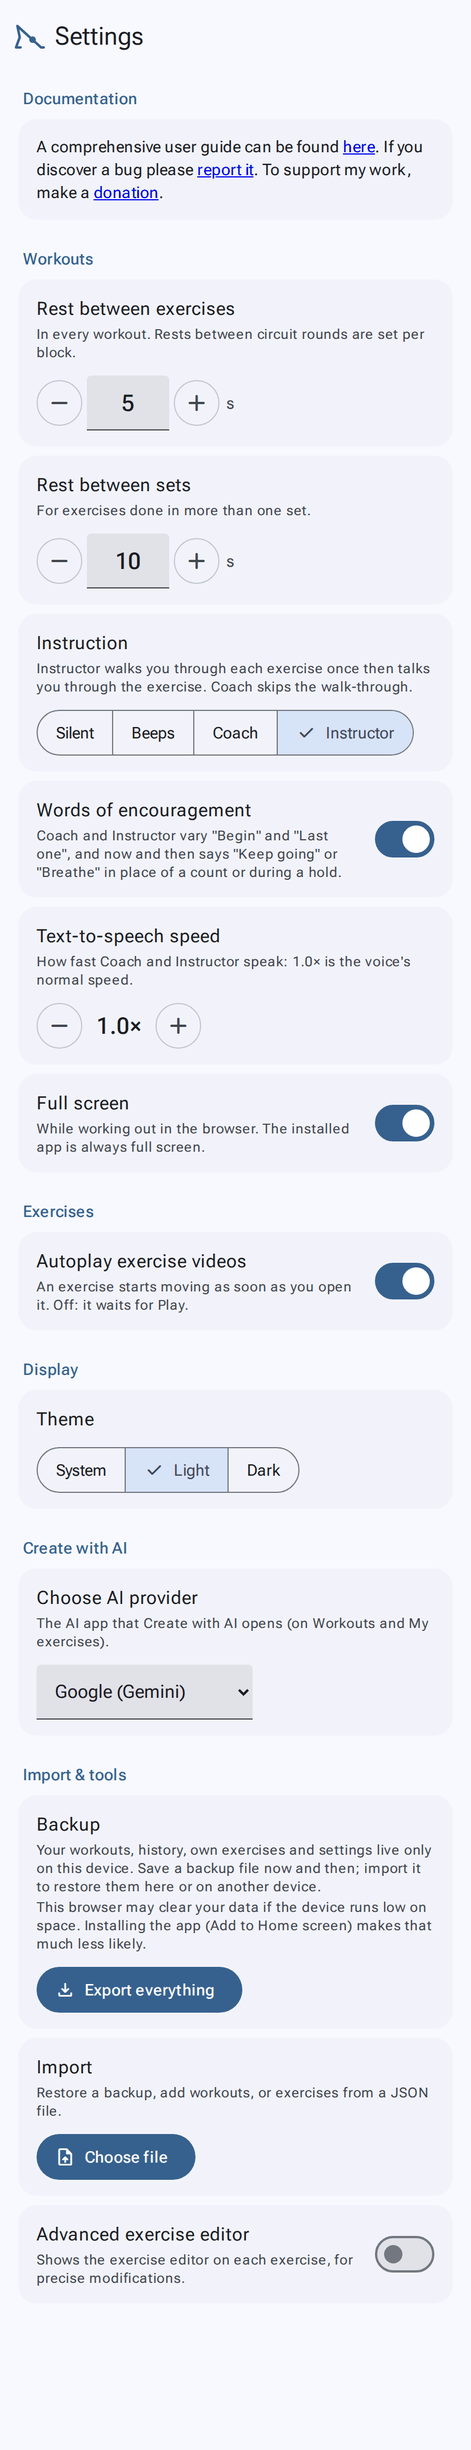
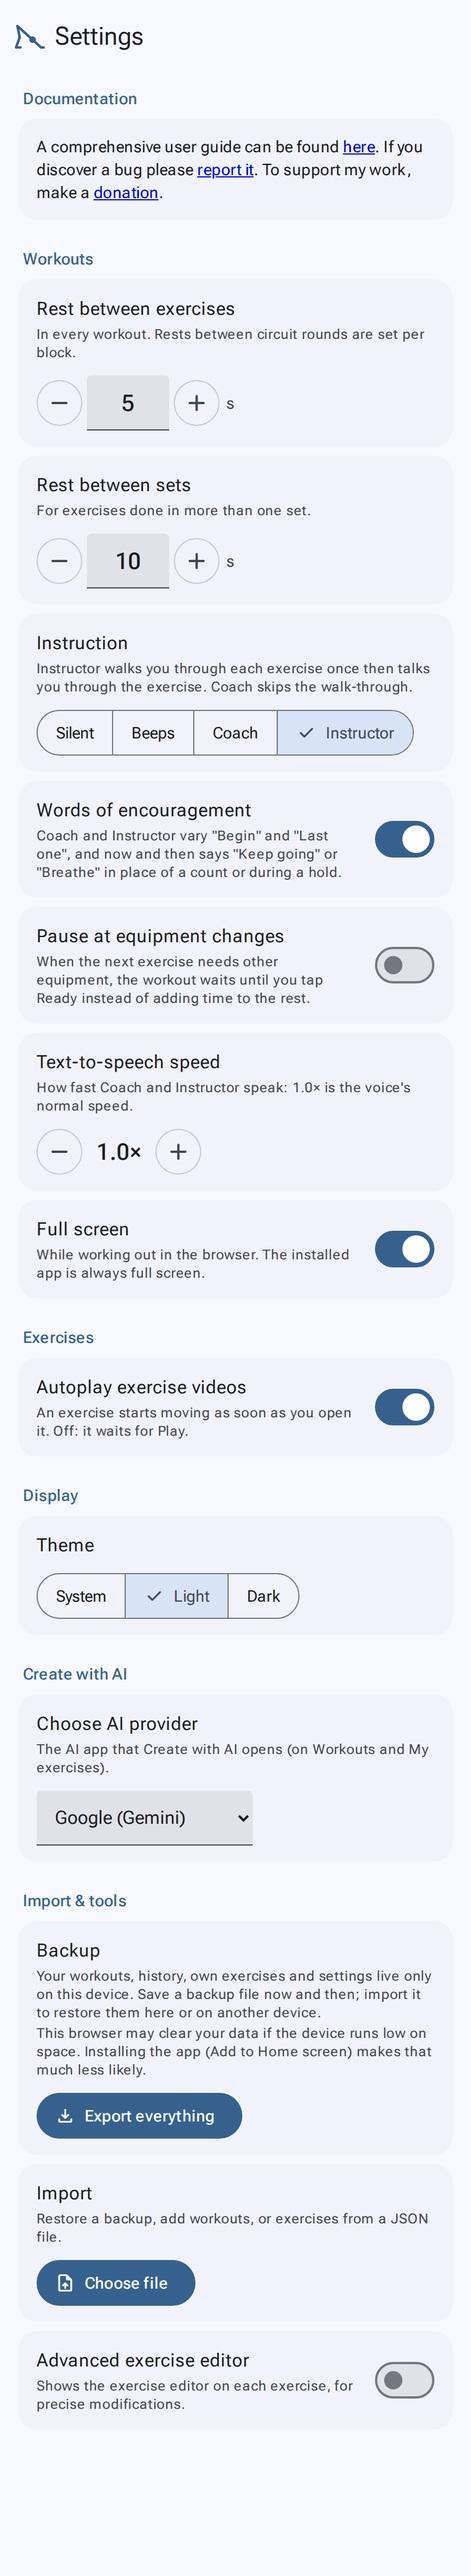
Workout player: time, words and a checklist for equipment changes; Pause at equipment changes
- EQUIP: an allowance per piece (hand-held 5 s, brought or gone to 10 s, set up 20 s; the mat stays
  down) and what to say. equipmentChange: the longest allowance + 3 s per other piece.
- The rest before an exercise with other equipment gets longer and shows and says what to do
  ("Put the dumbbells down · Bring a chair"); rounds too.
- A workout with equipment starts with "Get ready": what you'll need and the first exercise, 10 s.
- The time estimate counts both (the library's band, weights and kettlebell workouts: +10 s).
- Settings, under Words of encouragement: Pause at equipment changes (off at first; backed up): the
  change and the checklist wait for Ready instead of counting down.
- tools/e2e/equipment_changes.py; HANDOFF 8.3c and the key; wiki Settings and Working out; screenshots.

Claude-Session: https://claude.ai/code/session_0133kyx5MPf8aRU2sQwm2BG7

diff --git a/src/app/4-workouts.js b/src/app/4-workouts.js
@@ -72,7 +72,7 @@ function blockSeconds(b, w) {
   return one * r + (r - 1) * (b.roundRest || 0);
 }
 function workoutSeconds(w) {
-  return w.blocks.reduce((s, b) => s + blockSeconds(b, w), 0) + Math.max(0, w.blocks.filter(b => b.items.length).length - 1) * restGap();
+  return w.blocks.reduce((s, b) => s + blockSeconds(b, w), 0) + Math.max(0, w.blocks.filter(b => b.items.length).length - 1) * restGap() + equipmentSeconds(w);
 }
 /* the workout as the player runs it: every item of every round of every block, in order */
 function flattenWorkout(w) {
@@ -86,6 +86,52 @@ function flattenWorkout(w) {
   return out;
 }
 const workoutEquipment = w => [...new Set(w.blocks.flatMap(b => b.items).flatMap(it => (exById(it.ex) || {}).equipment || []))].sort();
+/* ---------- Equipment changes (Oct 2026) ----------
+   Between two exercises with different equipment the person has to put things down and get or set up others, so the rest
+   gets longer by an allowance (and the time estimate with it), the rest screen and the voice say what to do, and a
+   workout with equipment starts with a "Get ready" checklist. With "Pause at equipment changes" (Settings) it waits for
+   Ready instead of counting down. The yoga mat stays down. s: seconds it takes (hand-held 5, brought or gone to 10,
+   set up 20); get / drop: what to say. */
+const EQUIP = {
+  Dumbbells: { s: 5, get: 'Get the dumbbells', drop: 'Put the dumbbells down' },
+  Kettlebell: { s: 5, get: 'Get the kettlebell', drop: 'Put the kettlebell down' },
+  'Medicine ball': { s: 5, get: 'Get the medicine ball', drop: 'Put the medicine ball down' },
+  'Resistance band': { s: 5, get: 'Get the resistance band', drop: 'Put the band down' },
+  Towel: { s: 5, get: 'Get a towel', drop: 'Put the towel down' },
+  'Yoga block': { s: 5, get: 'Get a yoga block', drop: 'Put the block down' },
+  'Yoga strap': { s: 5, get: 'Get the yoga strap', drop: 'Put the strap down' },
+  'Pilates ring': { s: 5, get: 'Get the Pilates ring', drop: 'Put the ring down' },
+  Barbell: { s: 10, get: 'Get the barbell', drop: 'Put the barbell down' },
+  Chair: { s: 10, get: 'Bring a chair' },
+  Bench: { s: 10, get: 'Go to the bench' },
+  Step: { s: 10, get: 'Get the step' },
+  Wall: { s: 10, get: 'Go to a wall' },
+  'Stability ball': { s: 10, get: 'Get the stability ball', drop: 'Roll the ball aside' },
+  'Foam roller': { s: 10, get: 'Get the foam roller', drop: 'Put the roller aside' },
+  'Door anchor': { s: 20, get: 'Set up the door anchor' },
+  'Pull-up bar': { s: 20, get: 'Go to the pull-up bar' }
+};
+const fetchKey = q => q === 'Dumbbell' ? 'Dumbbells' : q;                     // one dumbbell or two: the same to fetch
+const equipOf = ex => new Set(((ex && ex.equipment) || []).map(fetchKey).filter(q => EQUIP[q]));
+/* what changes from one exercise to the next: { seconds, lines } or null */
+function equipmentChange(fromEx, toEx) {
+  const a = equipOf(fromEx), b = equipOf(toEx);
+  const put = [...a].filter(q => !b.has(q)), got = [...b].filter(q => !a.has(q)), all = [...put, ...got];
+  if (!all.length) return null;
+  return { seconds: Math.max(...all.map(q => EQUIP[q].s)) + 3 * (all.length - 1),
+    lines: [...put.map(q => EQUIP[q].drop).filter(Boolean), ...got.map(q => EQUIP[q].get)] };
+}
+const GET_READY_S = 10;
+// everything a workout (from one of its exercises on) uses, for the "Get ready" checklist
+const neededFrom = (flat, i) => [...new Set(flat.slice(i).flatMap(e => [...equipOf(exById(e.item.ex))]))];
+const listWords = xs => xs.length < 2 ? xs.join('') : `${xs.slice(0, -1).join(', ')} and ${xs[xs.length - 1]}`;
+const equipPauseOn = () => pref(EQUIP_PAUSE_KEY, 'off') === 'on';
+/* the time the equipment adds to a workout: the changes between its exercises in order, and the checklist */
+function equipmentSeconds(w) {
+  const flat = flattenWorkout(w); let t = flat.length && neededFrom(flat, 0).length ? GET_READY_S : 0;
+  for (let i = 1; i < flat.length; i++) { const c = equipmentChange(exById(flat[i - 1].item.ex), exById(flat[i].item.ex)); if (c) t += c.seconds; }
+  return t;
+}
 function itemSummary(item) {
   const ex = exById(item.ex); if (!ex) return 'Missing exercise';
   const parts = [];
@@ -786,7 +832,10 @@ function startWorkout(w, fromIndex = 0, swaps = null, test = false) {
   unlockAudio(); wakeOn(); enterFullscreen(); setSound(WK.sound); keepStorage(); installDue();
   go(`#/wplay/${encodeURIComponent(w.id)}`);
   S.mode = 'start';                                               // no transition into the first exercise
-  runCurrent(true);
+  // a workout with equipment starts with what to have at hand ("Get ready"), then the first exercise
+  const need = neededFrom(WP.flat, WP.i);
+  if (need.length) { WP.phase = 'work'; startRest(GET_READY_S, 'start', { seconds: 0, lines: [`You'll need: ${listWords(need.map(q => q.toLowerCase()))}`] }); }
+  else runCurrent(true);
   if (!WK.hinted) { WK.hinted = true; setTimeout(() => toast('Tap for controls'), 600); }
 }
 function current() { return WP.flat[WP.i]; }
@@ -890,27 +939,36 @@ function onWorkEnd() {
   logItem(cur);
   if (WP.i < WP.flat.length - 1) {
     WP.i++; saveSession();
-    const nx = WP.flat[WP.i];
-    if (nx.firstOfRound) return startRest(nx.block.roundRest != null ? nx.block.roundRest : 30, 'round');
-    return startRest(restGap(), 'item');
+    const nx = WP.flat[WP.i], ch = equipmentChange(exById(cur.item.ex), exById(nx.item.ex));
+    if (nx.firstOfRound) return startRest(nx.block.roundRest != null ? nx.block.roundRest : 30, 'round', ch);
+    return startRest(restGap(), 'item', ch);
   }
   finishWorkout();
 }
-function startRest(seconds, kind) {
+/* ch: an equipment change ({ seconds, lines }, equipmentChange) or, for kind 'start', the checklist ({ seconds: 0,
+   lines: ["You'll need …"] }): the rest gets its seconds added and says its lines; with "Pause at equipment changes" it
+   waits for Ready instead of counting down to the next exercise */
+function startRest(seconds, kind, ch = null) {
+  if (ch) seconds += ch.seconds;
   if (seconds <= 0) return runCurrent(true);
   WP.phase = 'rest'; WP.restLeft = seconds; WP.restLast = performance.now(); WP.beeped = {}; S.canAdvance = null; S.holdWait = null;
+  WP.waitReady = !!ch && equipPauseOn();
   const cur = current(), ex = exById(cur.item.ex);
   $('#wpRest').hidden = false; $('#wpControls').classList.remove('show');
-  $('#wpRestLabel').textContent = kind === 'set' ? 'Rest before the next set' : kind === 'round' ? `Rest before round ${cur.round + 1} of ${cur.rounds}` : 'Rest';
-  $('#wpRestNext').textContent = kind === 'set' ? `Next: set ${WP.set + 1} of ${cur.item.sets}` : `Next: ${ex.name}`;
+  $('#wpRestLabel').textContent = kind === 'start' ? 'Get ready' : kind === 'set' ? 'Rest before the next set' : kind === 'round' ? `Rest before round ${cur.round + 1} of ${cur.rounds}` : 'Rest';
+  $('#wpRestNext').textContent = kind === 'start' ? `First: ${ex.name}` : kind === 'set' ? `Next: set ${WP.set + 1} of ${cur.item.sets}` : `Next: ${ex.name}`;
+  $('#wpRestEquip').textContent = ch ? ch.lines.join(' · ') : ''; $('#wpRestEquip').hidden = !ch;
+  $('#wpRestTime').textContent = WP.waitReady ? '' : fmtTime(Math.ceil(seconds)); $('#wpRestTime').hidden = WP.waitReady;
+  $('[data-wact="restSkip"]').textContent = WP.waitReady ? 'Ready' : 'Skip'; $('[data-wact="restMore"]').hidden = WP.waitReady;
   // show where the next exercise starts: moving there through the at-rest pose when it can, or straight there
   stagePlan(buildPlan(cur.item, itemSegments(cur.item)[0]));
   S.onStep = null; S.onPlanEnd = null; S.planDone = false;
   if (S.trans) { S.playing = true; S.t = 0; S.canAdvance = i => i < S.trans; }    // stops once it's in the first step
   else { S.playing = false; S.t = S.resolved[0].dur; }
   renderWpInfo();
-  const rest = plural(seconds, { one: 'Rest # second.', other: 'Rest # seconds.' });
-  say(kind === 'set' ? rest : kind === 'round' ? `Round ${fmtNum(cur.round)} done. ${rest}` : `${rest} Next: ${ex.name}.`);
+  const rest = WP.waitReady ? '' : plural(Math.ceil(seconds), { one: 'Rest # second.', other: 'Rest # seconds.' });
+  const todo = ch ? ` ${ch.lines.join('. ')}.${WP.waitReady ? " Tap Ready when you're set." : ''}` : '';
+  say((kind === 'start' ? `First: ${ex.name}.` : kind === 'set' ? rest : kind === 'round' ? `Round ${fmtNum(cur.round)} done. ${rest}` : `${rest} Next: ${ex.name}.`).trim() + todo);
   beep(520, 200);
 }
 /* ---------- history ---------- */
@@ -1096,7 +1154,8 @@ function renderWpCount() {
 /* a light ticker for countdowns (rest and holds) */
 setInterval(() => {
   if (S.view !== 'wplay') return;
-  if (WP.phase === 'rest' && !WP.paused) {
+  if (WP.phase === 'rest' && WP.waitReady) WP.restLast = performance.now();            // waits for Ready
+  else if (WP.phase === 'rest' && !WP.paused) {
     const now = performance.now(); WP.restLeft -= (now - WP.restLast) / 1000; WP.restLast = now;
     const left = Math.max(0, Math.ceil(WP.restLeft));
     $('#wpRestTime').textContent = fmtTime(left);
@@ -1126,7 +1185,7 @@ function wpAction(act) {
   }
   if (act === 'easier' || act === 'harder') { swapCurrent(act); return; }
   if (act === 'restMore') { WP.restLeft += 15; return; }
-  if (act === 'restSkip') { if (WP.phase === 'rest') { if (onTheWay()) WP.restLeft = 0; else runCurrent(true); } return; }   // still getting into position: starts as soon as it's there
+  if (act === 'restSkip') { WP.waitReady = false; if (WP.phase === 'rest') { if (onTheWay()) WP.restLeft = 0; else runCurrent(true); } return; }   // still getting into position: starts as soon as it's there
   if (act === 'nextItem' || act === 'prevItem' || act === 'restSkip') hush();
   if (act === 'nextItem') { if (WP.i < WP.flat.length - 1) { WP.i++; WP.set = 0; WP.seg = 0; runCurrent(true); } else finishWorkout(); return; }
   if (act === 'prevItem') { WP.i = Math.max(0, WP.i - 1); WP.set = 0; WP.seg = 0; runCurrent(true); return; }

diff --git a/src/app/3-details.js b/src/app/3-details.js
@@ -175,7 +175,7 @@ function exStepSound(i) {
 function exHush() { XS.token++; XS.speaking = false; XS.last = ''; try { if ('speechSynthesis' in window) speechSynthesis.cancel(); } catch (e) { } }
 
 /* ---------- Settings ---------- */
-const THEME_KEY = 'nstructr-theme-v1', SPEED_KEY = 'nstructr-speed-v1', AUTHOR_KEY = 'nstructr-authoring-v1', REST_KEY = 'nstructr-rest-between-v1', REST_SETS_KEY = 'nstructr-rest-sets-v1', AUTOPLAY_KEY = 'nstructr-autoplay-v1', SPEECH_RATE_KEY = 'nstructr-speech-rate-v1', ENCOURAGE_KEY = 'nstructr-encourage-v1';
+const THEME_KEY = 'nstructr-theme-v1', SPEED_KEY = 'nstructr-speed-v1', AUTHOR_KEY = 'nstructr-authoring-v1', REST_KEY = 'nstructr-rest-between-v1', REST_SETS_KEY = 'nstructr-rest-sets-v1', AUTOPLAY_KEY = 'nstructr-autoplay-v1', SPEECH_RATE_KEY = 'nstructr-speech-rate-v1', ENCOURAGE_KEY = 'nstructr-encourage-v1', EQUIP_PAUSE_KEY = 'nstructr-equip-pause-v1';
 const pref = (k, d) => { try { return localStorage.getItem(k) || d; } catch (e) { return d; } };
 const setPref = (k, v) => { try { localStorage.setItem(k, v); } catch (e) { } };
 const authoring = () => pref(AUTHOR_KEY, 'off') === 'on';
@@ -234,6 +234,7 @@ function renderSettings() {
   $('#setRest').value = restGap(); $('#setRestSets').value = restSets(); setRate(speechRate(), false);
   $('#setAuthoring').checked = authoring();
   $('#setEncourage').checked = encourageOn(); $('#setEncourageRow').hidden = !['voice', 'coach'].includes(WK.sound);
+  $('#setEquipPause').checked = equipPauseOn();
   renderPersistNote();
 }
 $('#view-settings').addEventListener('click', e => {
@@ -252,6 +253,7 @@ function bugDevice() {
 }
 $('#bugLink').addEventListener('click', e => { e.currentTarget.href = `${BUG_URL}&device=${encodeURIComponent(bugDevice())}`; });
 $('#setEncourage').addEventListener('change', e => setPref(ENCOURAGE_KEY, e.target.checked ? 'on' : 'off'));
+$('#setEquipPause').addEventListener('change', e => setPref(EQUIP_PAUSE_KEY, e.target.checked ? 'on' : 'off'));
 $('#setAutoplay').addEventListener('change', e => setPref(AUTOPLAY_KEY, e.target.checked ? 'on' : 'off'));
 function setRest(which, v) {
   v = Math.min(300, Math.max(0, Math.round(+v || 0)));

diff --git a/src/body.html b/src/body.html
@@ -59,6 +59,8 @@
           <div class="segmented" id="setSound" role="group" aria-label="Instruction"></div></div>
         <label class="setting" id="setEncourageRow"><span class="txt"><span class="body-large">Words of encouragement</span><span class="body-small muted">Coach and Instructor vary "Begin" and "Last one", and now and then says "Keep going" or "Breathe" in place of a count or during a hold.</span></span>
           <input type="checkbox" class="switch" id="setEncourage"></label>
+        <label class="setting" id="setEquipPauseRow"><span class="txt"><span class="body-large">Pause at equipment changes</span><span class="body-small muted">When the next exercise needs other equipment, the workout waits until you tap Ready instead of adding time to the rest.</span></span>
+          <input type="checkbox" class="switch" id="setEquipPause"></label>
         <div class="setting"><span class="txt"><span class="body-large">Text-to-speech speed</span><span class="body-small muted">How fast Coach and Instructor speak: 1.0× is the voice's normal speed.</span></span>
           <span class="stepper"><button class="icon-btn stateful" data-rate-delta="-1" aria-label="Speak slower"><span class="icon">remove</span></button>
             <output id="setRate" aria-live="polite">1.0×</output>
@@ -163,6 +165,7 @@
           <p class="ov-block" id="wpRestLabel">Rest</p>
           <p class="wp-big" id="wpRestTime">0:15</p>
           <p class="ov-next" id="wpRestNext"></p>
+          <p class="ov-equip" id="wpRestEquip" hidden></p>
           <div class="ov-rest-btns"><button class="ov-pill" data-wact="restMore">+15 s</button><button class="ov-pill primary" data-wact="restSkip">Skip</button></div>
         </div>
         <div class="wp-done" id="wpDone" hidden>

diff --git a/src/head.html b/src/head.html
@@ -700,6 +700,7 @@ body[data-view="wplay"]{overflow:hidden;background:var(--md-surface)}
 .fs .wp-rest[hidden],.fs .wp-done[hidden]{display:none}
 .fs .wp-big{margin:0;font-size:clamp(64px,30vmin,200px);line-height:1;font-weight:700;font-variant-numeric:tabular-nums;color:var(--wp-fg)}
 .ov-next{margin:0;font-size:clamp(16px,5.5vmin,30px);color:var(--ov-dim)}
+.ov-equip{margin:0;max-width:30ch;font-size:clamp(15px,5vmin,26px);font-weight:600;color:inherit}
 .ov-rest-btns{display:flex;gap:12px;margin-top:6px}
 .ov-pill{min-width:96px;height:clamp(48px,14vmin,64px);padding:0 22px;border-radius:32px;font-size:clamp(16px,5vmin,22px);font-weight:600;color:var(--wp-fg);background:var(--wp-btn)}
 .ov-pill.primary{background:var(--ov-primary);color:var(--ov-on-primary)}

diff --git a/src/app/6-pwa.js b/src/app/6-pwa.js
@@ -69,7 +69,7 @@ const BACKUP_PREFS = [
   ['theme', THEME_KEY, ['system', 'light', 'dark'], 'system'], ['fullscreen', FS_KEY, 'switch', true],
   ['autoplay', AUTOPLAY_KEY, 'switch', true], ['authoring', AUTHOR_KEY, 'switch', false],
   ['exerciseLoop', LOOP_KEY, 'switch', true], ['exerciseMute', EXMUTE_KEY, 'switch', true],
-  ['groupCollections', GROUP_KEY, 'switch', false],
+  ['groupCollections', GROUP_KEY, 'switch', false], ['equipPause', EQUIP_PAUSE_KEY, 'switch', false],
   ['aiApp', AI_KEY, AI_APPS.map(a => a.id), 'gemini'], ['aiEquipment', AI_EQUIP_KEY, 'list', []],
   ['libraryOrder', LIB_ORDER_KEY, 'list', null]
 ];

diff --git a/tools/e2e/equipment_changes.py b/tools/e2e/equipment_changes.py
@@ -1,0 +1,62 @@
+import asyncio, os
+# point at a served build, e.g.  python3 -m http.server 8000 -d _site
+URL = os.environ.get('NSTRUCTR_URL', 'http://localhost:8000/nstructr.html')
+from playwright.async_api import async_playwright
+# Equipment changes (src/app/4-workouts.js, Oct 2026): from one exercise to the next with other equipment the rest gets an
+# allowance (the longest of what changes, +3 s for each other item) and says what to put down and get; a workout with
+# equipment starts with a "Get ready" checklist; the time estimate counts both; "Pause at equipment changes" (Settings,
+# under Words of encouragement) waits for Ready instead. Works on the cover screen.
+SAY = "window.SAID = []; say = t => { SAID.push(t); return Promise.resolve(); };"
+WK = """((ids, rest) => { localStorage.setItem('nstructr-rest-between-v1', String(rest)); WK.hinted = true;
+  WK.list = WK.list.filter(w => w.id !== 't'); WK.list.push({ id: 't', name: 'T', blocks: [{ id: 'b', name: 'B', items: ids.map(id => ({ ...newItem(exById(id)), reps: 1 })) }] });
+  saveWorkouts(); startWorkout(wkById('t'), 0); })"""
+async def main():
+    async with async_playwright() as p:
+        b = await p.chromium.launch(); errs = []
+        ctx = await b.new_context(viewport={'width': 412, 'height': 860}, service_workers='block'); pg = await ctx.new_page(); pg.on('pageerror', lambda e: errs.append(str(e)))
+        await pg.goto(URL + '#/settings', wait_until='domcontentloaded'); await pg.wait_for_function("typeof equipPauseOn === 'function'"); await pg.wait_for_timeout(300)
+        print('setting under encouragement', await pg.evaluate("$('#setEncourageRow').nextElementSibling.id"), '<- setEquipPauseRow')
+        print('  off at first          ', await pg.evaluate("$('#setEquipPause').checked"), '<- False')
+        print('changes                 ', await pg.evaluate("""[['fw-db-curl', 'chair-arm-raises'], ['bw-squat', 'bw-glute-bridge'], ['band-standing-row', 'band-face-pull'], ['band-overhead-triceps', 'band-standing-row'], ['fw-db-curl', 'fw-db-rdl']]
+          .map(([a, c]) => { const x = equipmentChange(exById(a), exById(c)); return x && [x.seconds, x.lines.join(' / ')]; })"""))
+        print("  <- [13, put the dumbbells down / bring a chair], none (no equipment), none (the same), [20, set up the door anchor], none (dumbbells both)")
+        print('estimate counts it      ', await pg.evaluate("""(() => { const w = { id: 'e', name: 'E', blocks: [{ id: 'b', name: 'B', items: ['fw-db-curl', 'chair-arm-raises'].map(id => ({ ...newItem(exById(id)), reps: 1 })) }] };
+          return [equipmentSeconds(w), Math.round(workoutSeconds(w) - w.blocks.reduce((s, x) => s + blockSeconds(x, w), 0))]; })()"""), '<- [23, 23] (10 s checklist + 13 s change)')
+        # timed: the checklist, then the change
+        await pg.goto(URL + '#/workouts', wait_until='domcontentloaded'); await pg.wait_for_function("typeof equipPauseOn === 'function'"); await pg.wait_for_timeout(300); await pg.evaluate(SAY)
+        await pg.evaluate(WK + "(['fw-db-curl', 'chair-arm-raises'], 5)"); await pg.wait_for_timeout(300)
+        print('get ready               ', await pg.evaluate("[WP.phase, $('#wpRestLabel').textContent, $('#wpRestNext').textContent, $('#wpRestEquip').textContent, $('#wpRestTime').textContent]"))
+        print("  <- ['rest', 'Get ready', 'First: Dumbbell Biceps Curl'-ish, \"You'll need: dumbbells and chair\", '0:10']")
+        print('  said                  ', await pg.evaluate("SAID.slice(-1)"))
+        await pg.evaluate("wpAction('restSkip')"); await pg.wait_for_timeout(300)
+        await pg.evaluate("S.speed = 20"); await pg.wait_for_function("WP.phase === 'rest'", timeout=20000); await pg.evaluate("S.speed = 1")
+        print('change rest             ', await pg.evaluate("[$('#wpRestLabel').textContent, $('#wpRestEquip').textContent, Math.round(WP.restLeft), $('[data-wact=\"restSkip\"]').textContent]"), "<- ['Rest', 'Put the dumbbells down · Bring a chair', 18 (5 + 13), 'Skip']")
+        print('  said                  ', await pg.evaluate("SAID.slice(-1)"))
+        # pause at equipment changes: waits for Ready
+        await pg.evaluate("hush(); WP.phase = 'done'; setPref(EQUIP_PAUSE_KEY, 'on')")
+        await pg.evaluate(WK + "(['fw-db-curl', 'chair-arm-raises'], 0)"); await pg.wait_for_timeout(300)
+        print('pause: get ready waits  ', await pg.evaluate("[WP.phase, WP.waitReady, $('#wpRestTime').hidden, $('[data-wact=\"restSkip\"]').textContent, $('[data-wact=\"restMore\"]').hidden]"), "<- ['rest', True, True, 'Ready', True]")
+        await pg.wait_for_timeout(12000)
+        print('  12 s later, still     ', await pg.evaluate("WP.phase"), '<- rest')
+        await pg.evaluate("wpAction('restSkip')"); await pg.wait_for_timeout(300)
+        await pg.evaluate("S.speed = 20"); await pg.wait_for_function("WP.phase === 'rest'", timeout=20000); await pg.evaluate("S.speed = 1")
+        print('  change: waits, says   ', await pg.evaluate("[WP.waitReady, SAID.slice(-1)[0]]"), "<- [True, '… Bring a chair. Tap Ready when you're set.']")
+        await pg.wait_for_timeout(2500)
+        await pg.evaluate("wpAction('restSkip')"); await pg.wait_for_function("WP.phase === 'work'", timeout=10000)
+        print('  Ready: next exercise  ', await pg.evaluate("S.ex.id"), '<- chair-arm-raises')
+        # no equipment: no checklist; the same equipment: a plain rest
+        await pg.evaluate("hush(); WP.phase = 'done'"); await pg.evaluate(WK + "(['bw-squat', 'bw-pushup'], 5)"); await pg.wait_for_timeout(300)
+        print('no equipment: no list   ', await pg.evaluate("WP.phase"), '<- work')
+        # backup
+        print('backup                  ', await pg.evaluate("backupData().settings.equipPause"), '<- True')
+        await b.close()
+        # the cover screen: everything on the rest screen in view
+        b = await p.chromium.launch(); ctx = await b.new_context(viewport={'width': 360, 'height': 398}, device_scale_factor=2.63, has_touch=True, service_workers='block'); pg = await ctx.new_page(); pg.on('pageerror', lambda e: errs.append(str(e)))
+        await pg.goto(URL + '#/workouts', wait_until='domcontentloaded'); await pg.wait_for_function("typeof equipPauseOn === 'function'"); await pg.wait_for_timeout(300)
+        await pg.evaluate(WK + "(['band-overhead-triceps', 'band-standing-row'], 5)"); await pg.wait_for_timeout(500)
+        await pg.evaluate("wpAction('restSkip')"); await pg.wait_for_timeout(300)
+        await pg.evaluate("S.speed = 20"); await pg.wait_for_function("WP.phase === 'rest'", timeout=20000); await pg.evaluate("S.speed = 1"); await pg.wait_for_timeout(300)
+        print('cover: all in view      ', await pg.evaluate("""['#wpRestLabel', '#wpRestTime', '#wpRestNext', '#wpRestEquip', '[data-wact="restSkip"]'].map(q => { const r = $(q).getBoundingClientRect(); return r.bottom <= innerHeight && r.top >= 0; })"""), '<- all True')
+        await pg.screenshot(path='/tmp/equip_cover.png')
+        print('errors', errs); await b.close()
+asyncio.run(main())

diff --git a/HANDOFF.md b/HANDOFF.md
@@ -689,6 +689,25 @@ representations that rotate the short, natural way) over adding a known issue; i
 - The build checks every move both ways with `tools/checks.cjs` and `tools/rom.cjs`, like an exercise (the sit-back pose
   floated 24 px and crouch → plank flipped a thigh until fitted and given the kick-back step).
 
+### 8.3c Equipment changes (Oct 2026, owner's choice of options 1–4)
+- The figure's equipment fades in and out between exercises (§8.3b), but the person has to put things down and fetch
+  others. `EQUIP` (`src/app/4-workouts.js`) gives each piece of the library's equipment an allowance (hand-held: dumbbells,
+  kettlebell, medicine ball, band, towel, block, strap, ring 5 s; brought or gone to: barbell, chair, bench, step, wall,
+  stability ball, foam roller 10 s; set up: door anchor, pull-up bar 20 s; the yoga mat stays down) and words ("Put the
+  dumbbells down", "Bring a chair"). `equipmentChange(from, to)`: what is put down and fetched; seconds = the longest
+  allowance + 3 s for each other piece (dumbbells → chair: 13 s; Dumbbell and Dumbbells count as one).
+- **The rest gets longer** by it (`onWorkEnd` → `startRest(seconds, kind, change)`, also before a new round); the rest
+  screen shows what to do under "Next:" (`#wpRestEquip`) and Coach / Instructor say it after the rest line. Next (skip
+  to the next exercise) has no rest, as before.
+- **"Get ready"**: a workout that uses any of it starts with a 10 s rest (`kind: 'start'`): "First: …", "You'll need:
+  dumbbells and chair" (from where it starts, so a resumed workout lists what's left).
+- **Time estimate** (`workoutSeconds` + `equipmentSeconds`): the checklist and every change in the order the player runs
+  (rounds and blocks included). The library's band, free weights and kettlebell workouts gain 10 s (no changes inside).
+- **Pause at equipment changes** (Settings, off at first, `nstructr-equip-pause-v1`): at a change (and the checklist)
+  the rest doesn't count down (`WP.waitReady`): the time is hidden, +15 s goes, Skip reads Ready, the voice adds "Tap
+  Ready when you're set." The estimate still counts the allowances.
+- Not chosen (offered): showing the changes in the workout editor and grouping exercises by equipment.
+
 ### 8.4 Sound
 - Modes (labels renamed Oct 2026: Voice → Coach, Coach → Instructor; stored values `voice`/`coach` unchanged): Silent, Beeps (3-2-1 before rests/holds end, chime on switching), Coach (exercise name, side/direction
   switches, rests, "next", then the counted reps below), **Instructor**.
@@ -975,6 +994,7 @@ the app fills in the `device` field (user agent, screen size, installed app or b
 | `nstructr-group-collections-v1` | `"on"`: the Exercises tab groups All collections by collection; otherwise one A–Z list (default since Sep 2026; the tab's own switch) |
 | `nstructr-speech-rate-v1` | text-to-speech speed, 0.5–3 (steps of 0.1; default 1): `SpeechSynthesisUtterance.rate` for Coach and Instructor (Settings > Workouts, under Instruction; in the backup's `settings.speechRate`) |
 | `nstructr-encourage-v1` | Coach's and Instructor's words of encouragement, `on`/`off` (default on; Settings > Workouts, under Instruction, shown with Coach and Instructor (Instructor only until Oct 2026); `COACH_WORDS` in `src/app/4-workouts.js`: synonyms for Begin and Last one, a cheer for 20% of middle counts (10% for the rep after one that cheered, until one doesn't: `repCheer()`, `WP.cheered`) and 40% of a hold's 10-second marks, not near halfway or in the last 10 s; never the word picked last time for the same moment (`COACH_LAST`); the backup's `settings.encourage`) |
+| `nstructr-equip-pause-v1` | "Pause at equipment changes", `on`/`off` (default off; Settings > Workouts, under Words of encouragement; the backup's `settings.equipPause`): at an equipment change, and at the "Get ready" checklist, the rest waits for Ready instead of counting down (§8.3c) |
 | `nstructr-autoplay-v1` | `"off"`: exercises wait for Play when opened (Settings > Exercises; reduced motion also stops autoplay) |
 | `nstructr-rest-sets-v1` | seconds of rest between sets, in every workout (default 10, 0–300; Settings > Workouts; 20 until Sep 2026). Workout items' `rest` is ignored |
 | `nstructr-install-hint-v1` | the install tip: `due` once a workout was started, `shown` once offered (or installed). Per device, not in backups |
@@ -1000,7 +1020,7 @@ The mixed prefixes are historical; renaming them would silently wipe users' data
   second device, Not now/Add, id clash, QR, damaged link, no-CompressionStream fallback, the dialog's four buttons), `editing_text_layers` (no copy without a change, editing words, delete asks; plays a full round of
   both Star Excursions on both sides: the shins are stacked by depth, a front-view reach across the body is behind), `exercise_editor_workout_fixes` (steppers, copy on first edit, undo/revert/discard,
   pause stops speech, exit to list, "(copy)" names), `tabs_settings_player` (tabs, old links, Saved filter, settings persist,
-  player overlay, page order, labels, Edit with the figure pinned, Done), `direction_cues` (the other direction keeps each step's words, so cues match the compass), `circles_order_toggles` (Leg Circles' 8 points with 4 steps; quiet steps hidden from the step number, list and ◀ ▶; a workout item's order of sides/directions, saved, shared, and the switch announced; Loop off stops at the end, Play restarts; Mute), `autoplay_first_speech` (a workout's first line isn't cancelled; leaving an exercise page stops its voice; Autoplay setting; copy-only AI apps), `audit_fixes` (Material confirm dialog: Cancel/Esc keep, Delete deletes; leaving a workout by Esc or a screen reader's click; one `<main>`; 48 px targets), `security_imports` (HTML/script in every text field of a shared exercise and workout never runs; no `javascript:` source links), `triage_filters_pace` (rest setting in 1 s steps with hold-to-repeat, type/equipment rows, equipment kept across collections, seconds per rep, rest row only with 2+ sets), `create_with_ai` (kinds, input needed, link filled in vs copied, fenced/workout/in-library/not-JSON answers, AI app and rest settings, cover screen, Half Roll-Back band), `transitions` (same position: through the rest pose, frame glides, no jump; change of position: crossfade; with a rest: moves during it; Side Stepping → Neck Stretch both sides: no jump, the figure and the view's middle never turn back; reduced motion: cut), `exercise_sound` (Silent/Beeps quiet, Coach reads the first pass with steps waiting then counts, pause/side/leave stop it), `pwa_offline_backup` (against `/`, via `NSTRUCTR_SITE`: manifest, icons,
+  player overlay, page order, labels, Edit with the figure pinned, Done), `direction_cues` (the other direction keeps each step's words, so cues match the compass), `circles_order_toggles` (Leg Circles' 8 points with 4 steps; quiet steps hidden from the step number, list and ◀ ▶; a workout item's order of sides/directions, saved, shared, and the switch announced; Loop off stops at the end, Play restarts; Mute), `autoplay_first_speech` (a workout's first line isn't cancelled; leaving an exercise page stops its voice; Autoplay setting; copy-only AI apps), `audit_fixes` (Material confirm dialog: Cancel/Esc keep, Delete deletes; leaving a workout by Esc or a screen reader's click; one `<main>`; 48 px targets), `security_imports` (HTML/script in every text field of a shared exercise and workout never runs; no `javascript:` source links), `triage_filters_pace` (rest setting in 1 s steps with hold-to-repeat, type/equipment rows, equipment kept across collections, seconds per rep, rest row only with 2+ sets), `create_with_ai` (kinds, input needed, link filled in vs copied, fenced/workout/in-library/not-JSON answers, AI app and rest settings, cover screen, Half Roll-Back band), `equipment_changes` (allowances and words, the estimate, "Get ready", the longer rest and what's said, Pause at equipment changes waits for Ready, backup, the cover screen), `transitions` (same position: through the rest pose, frame glides, no jump; change of position: crossfade; with a rest: moves during it; Side Stepping → Neck Stretch both sides: no jump, the figure and the view's middle never turn back; reduced motion: cut), `exercise_sound` (Silent/Beeps quiet, Coach reads the first pass with steps waiting then counts, pause/side/leave stop it), `pwa_offline_backup` (against `/`, via `NSTRUCTR_SITE`: manifest, icons,
   offline reload, backup round trip), `library_and_ids` (library workouts, Customize, resume/exit, `u-` renames,
   newer-version files refused), `coach_speech` (guided steps wait for speech; nothing cancelled),
   `gestures_cover` (two-tap controls, swipes, hold-to-exit, Start goes straight in), `layout_overlap` (title /

diff --git a/wiki/Working-out.md b/wiki/Working-out.md
@@ -42,6 +42,22 @@ When the exercise has an easier or harder version, the controls show **Easier** 
 Between exercises (and sets and rounds) a big countdown shows what's next. **+15 s** adds time; **Skip** moves
 on. Beeps count down the last 3 seconds in Beeps, Coach and Instructor modes.
 
+### Equipment
+
+A workout that uses equipment starts with **Get ready**: what you'll need (for example "dumbbells and chair") and the
+first exercise, for 10 seconds. When the next exercise needs other equipment, the rest gets longer and says what to do,
+on the screen and in Coach and Instructor modes: "Put the dumbbells down · Bring a chair". The extra time:
+
+| Equipment | Extra time |
+|---|---|
+| Something you hold: dumbbells, kettlebell, medicine ball, band, towel, yoga block or strap, Pilates ring | 5 s |
+| Something you bring or go to: barbell, chair, bench, step, wall, stability ball, foam roller | 10 s |
+| Something you set up: door anchor, pull-up bar | 20 s |
+
+When several things change, it's the longest of them plus 3 s for each other one. The workout's time includes it. The
+yoga mat stays down, so it adds nothing. With **[Pause at equipment changes](Settings.md#pause-at-equipment-changes)**
+on, the workout waits for you to tap **Ready** instead.
+
 <img src="images/rest.png" width="300" alt="A rest: countdown, what's next, +15 s and Skip">
 
 **From one exercise to the next** the figure doesn't jump. When the next exercise starts in the position the last one

diff --git a/wiki/Settings.md b/wiki/Settings.md
@@ -33,6 +33,12 @@ great**: in place of about 1 in 5 counts (never the first or the last; 1 in 10 r
 and every 10 seconds of a hold, 4 times in 10 (never at halfway or in the last 10 seconds). The same word is never
 used twice in a row ("Good. Breathe. Good.", not "Good. Good."). Off: always "Begin", the numbers and "Last one".
 
+### Pause at equipment changes
+
+Off at first. When the next exercise needs other equipment (and at the **Get ready** list before a workout with
+equipment), the workout waits until you tap **Ready** instead of adding time to the rest. See
+[Working out → Equipment](Working-out.md#equipment).
+
 ### Text-to-speech speed
 How fast Coach and Instructor speak, from **0.5×** to **3.0×** in steps of 0.1 (**1.0×** is the voice's normal speed).
 Tap − or +, or hold one to keep going; you hear a short sample at the new speed.
